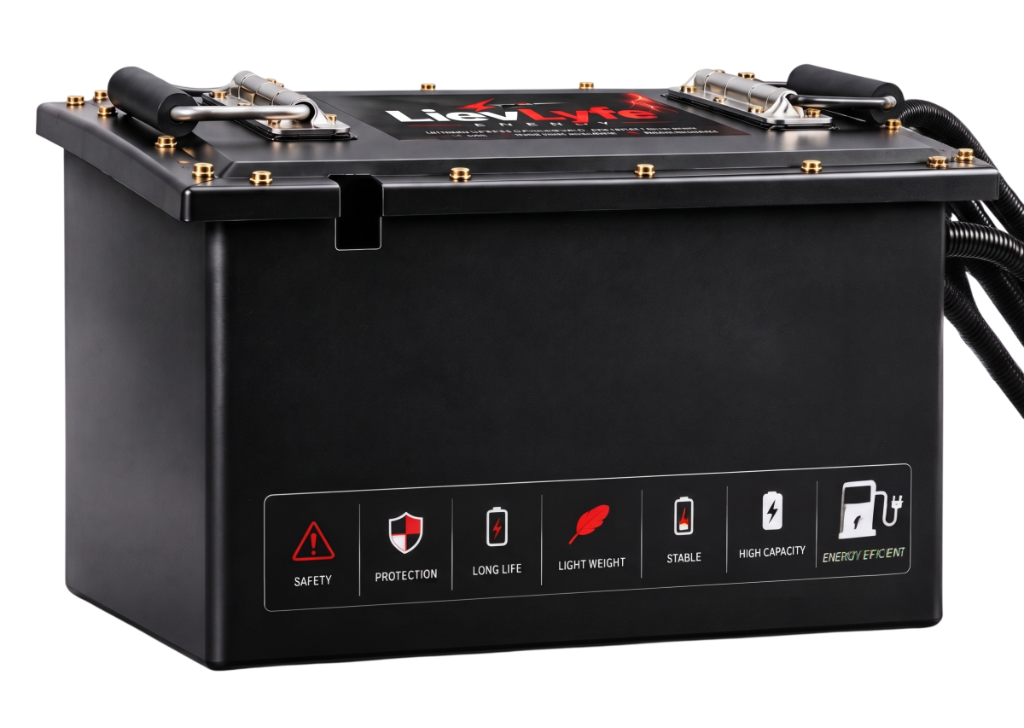
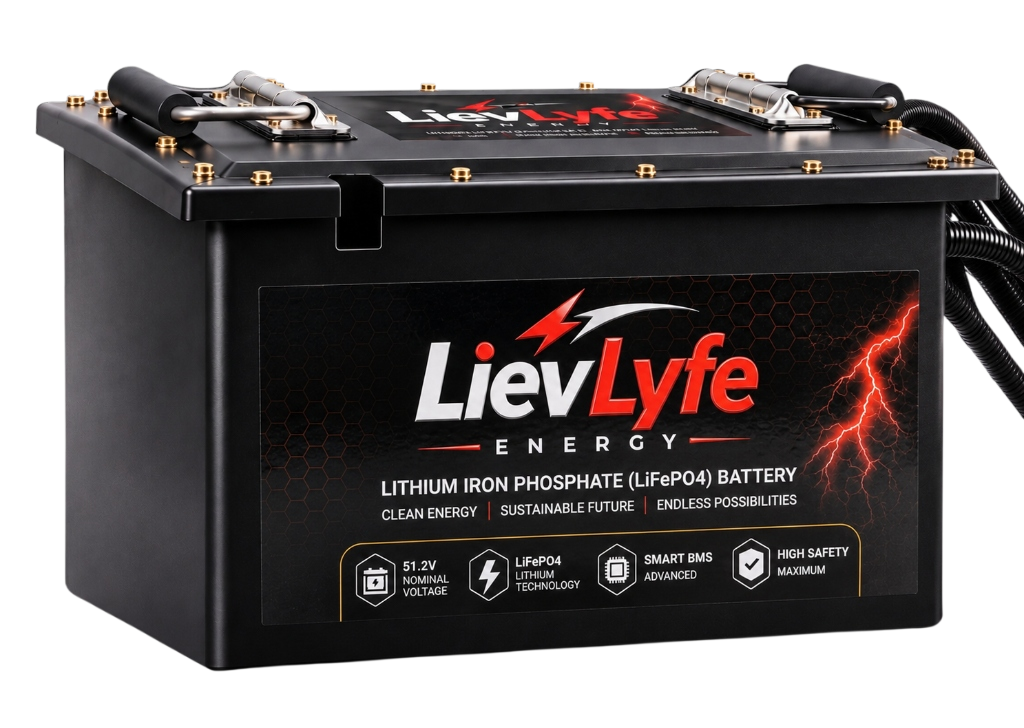
feat: update hero battery asset to version 5

diff --git a/src/components/LightHeroDesign.tsx b/src/components/LightHeroDesign.tsx
@@ -744,7 +744,7 @@ export default function LightHeroDesign({
             >
               <div className={`relative w-full h-full ${hideBatteryImage ? "opacity-0 pointer-events-none" : "animate-hero-float"}`}>
                 <Image
-                  src="/assets/lievlyfe_hero_battery_v4.png"
+                  src="/assets/lievlyfe_hero_battery_v5.png"
                   alt="LievLyfe LiFePO4 Premium Lithium Battery"
                   fill
                   sizes="(max-width: 640px) 380px, (max-width: 1024px) 540px, 620px"
@@ -770,7 +770,7 @@ export default function LightHeroDesign({
             >
               <div className={`relative w-full h-full ${hideBatteryImage ? "opacity-0 pointer-events-none" : "animate-hero-float"}`}>
                 <Image
-                  src="/assets/lievlyfe_hero_battery_v4.png"
+                  src="/assets/lievlyfe_hero_battery_v5.png"
                   alt="LievLyfe LiFePO4 Premium Lithium Battery"
                   fill
                   sizes="(max-width: 1024px) 450px, (max-width: 1440px) 550px, 600px"

diff --git a/src/components/InteractiveScrollPage.tsx b/src/components/InteractiveScrollPage.tsx
@@ -463,7 +463,7 @@ export default function InteractiveScrollPage() {
               }`}
             >
               <Image
-                src="/assets/lievlyfe_hero_battery_v4.png"
+                src="/assets/lievlyfe_hero_battery_v5.png"
                 alt="LievLyfe LiFePO4 Premium Lithium Battery"
                 fill
                 sizes="(max-width: 640px) 305px, (max-width: 1024px) 390px, (max-width: 1440px) 520px, 600px"
